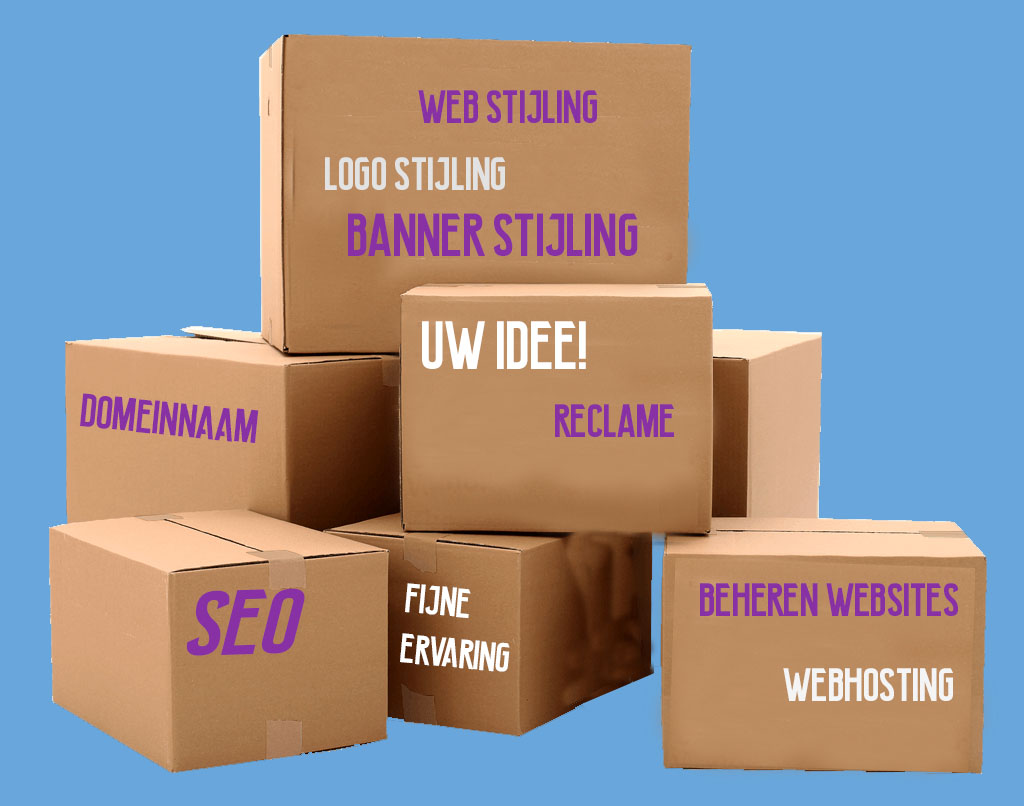
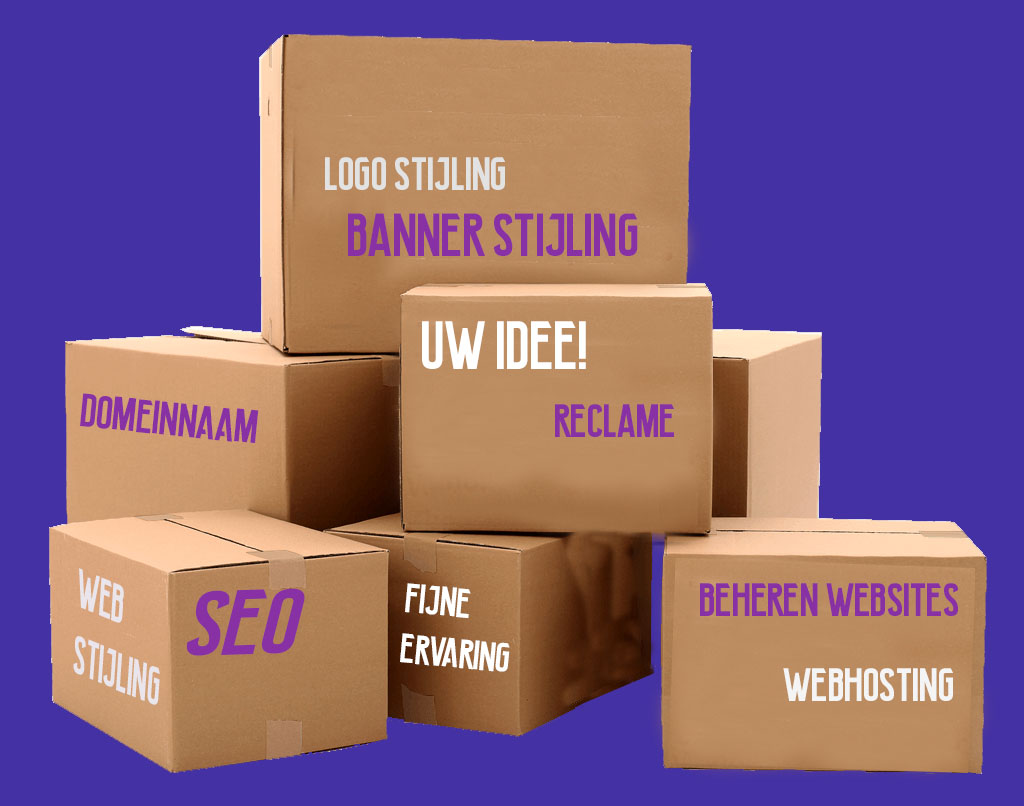
Diensten
Fotos bij de dienstenpagina zijn aangepast

diff --git a/landscape.css b/landscape.css
@@ -221,7 +221,7 @@ margin: 20px 33px 20px 20px;
 
 .bg-img1 {
     /* The image used */
-    background-image: url("../images/Banner%202.jpg");
+    background-image: url("../images/Diensten.jpg");
 
     /* Set a specific height */
     min-height: 500px; 
@@ -235,7 +235,7 @@ margin: 20px 33px 20px 20px;
 
 .bg-img2 {
     /* The image used */
-    background-image: url("../images/Banner%204.jpg");
+    background-image: url("../images/Pakketten.png");
 
     /* Set a specific height */
     min-height: 500px; 
